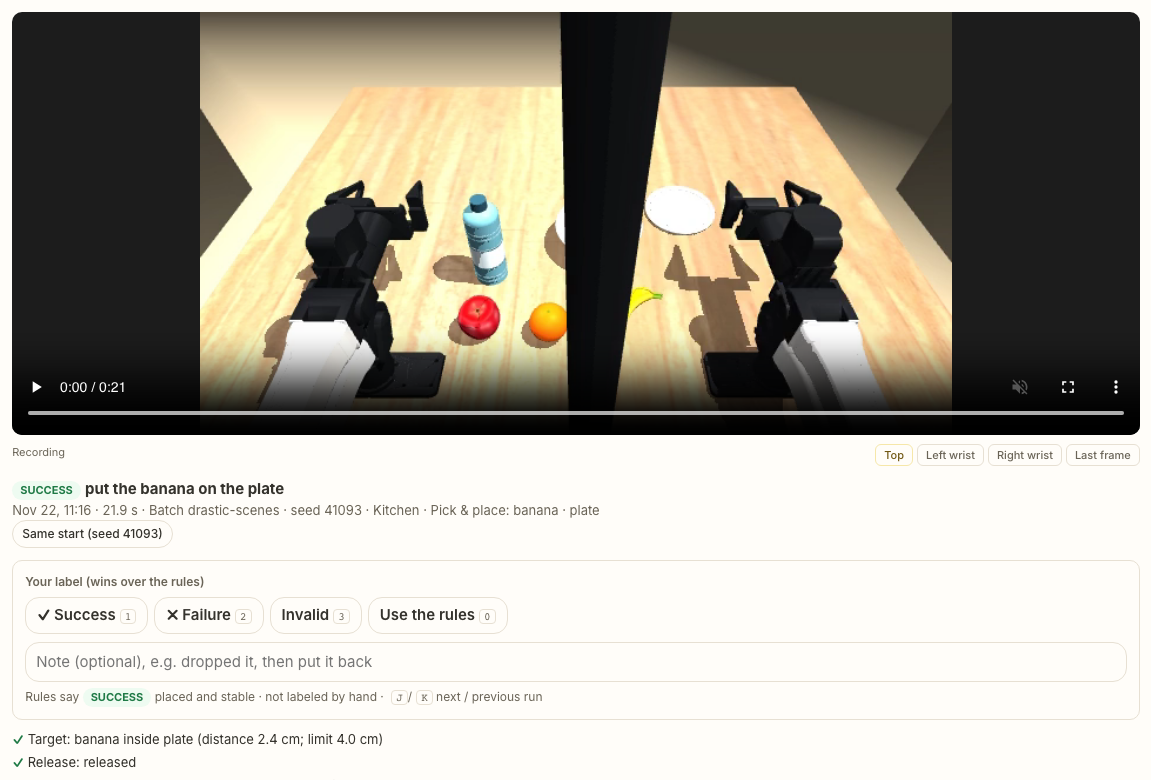
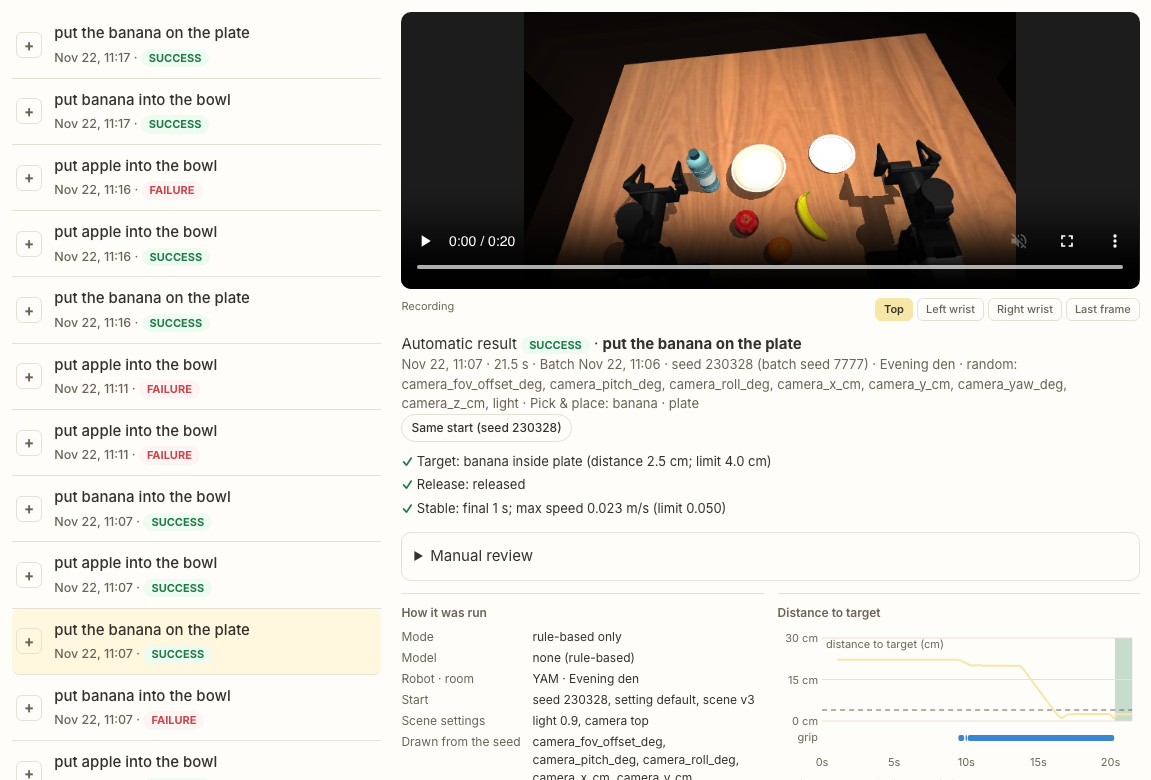
The run screenshot shows a clean recording beside the run list
The old shot's first frame was broken (a dark band across the top camera).
The new one is a rule-based success in the evening den, taken on the current
Collect page, where the run list sits beside the run's detail. tools/screenshots.py
still looks for the old table rows, so this shot was taken on its own.

diff --git a/README.md b/README.md
@@ -71,7 +71,7 @@ own fine-tuned model, on the YAM two-arm robot in a MuJoCo scene.
 | **Start**: Sign in with your Dream API key | **Collect**: A batch, with its run settings and runs |
 | --- | --- |
 | ![Start: sign in](docs/assets/screens/01-start.png) | ![Collect: a batch](docs/assets/screens/04-collect-batch.png) |
-| **Collect**: A run, with its video, verdict and label | **Train**: Pick the dataset, steps, data mix and learning rate, and see the price |
+| **Collect**: A run, with its video, verdict and settings | **Train**: Pick the dataset, steps, data mix and learning rate, and see the price |
 | ![Collect: a run](docs/assets/screens/05-collect-run.png) | ![Train: training form](docs/assets/screens/07-train-model.png) |
 
 ## Highlights
